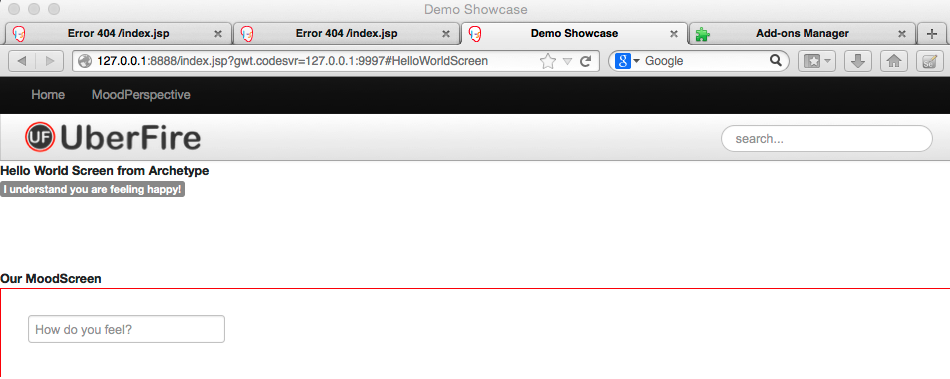
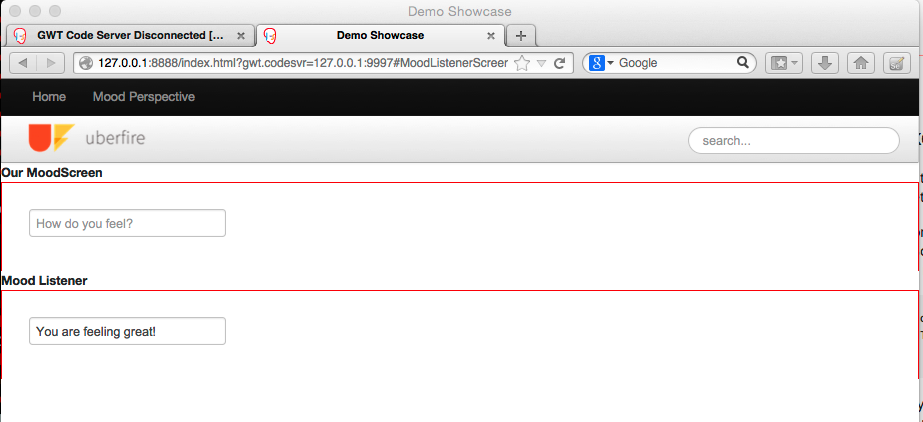
Getting started session

Changed region(s): [[0.0, 0.0, 1.0, 1.0], [0.0, 0.0, 0.0607, 0.029], [0.2427, 0.7546, 0.273, 0.7836]]

diff --git a/docs/gettingStarted/improvingYourFirstApp.md b/docs/gettingStarted/improvingYourFirstApp.md
@@ -95,6 +95,52 @@ public class MoodScreen extends Composite {
 ```
 MoodScreen is very similar to HelloWorldScreen. The only structural differences are related to our choice to use an Errai UI Template. See more about Errai UI templates in [this guide](https://docs.jboss.org/author/display/ERRAI/Errai+UI).
 
+### Creating MoodListenerScreen
+Create a HTML file named MoodListenerScreen.html inside Java package org.uberfire.client.screens with this content:
+```
+<div>
+    <div style="border: 1px solid red; padding: 30px">
+        <input data-field=moodTextBox type=text placeholder="I understand that you are feeling...">
+    </div>
+</div>
+```
+And create MoodListenerScreen.java, inside org.uberfire.cliente.screens:
+```
+package org.uberfire.client.screens;
+
+import javax.enterprise.context.Dependent;
+import javax.enterprise.event.Event;
+import javax.inject.Inject;
+
+import com.google.gwt.event.dom.client.KeyCodes;
+import com.google.gwt.event.dom.client.KeyDownEvent;
+import com.google.gwt.user.client.ui.Composite;
+import com.google.gwt.user.client.ui.TextBox;
+import org.jboss.errai.ui.shared.api.annotations.DataField;
+import org.jboss.errai.ui.shared.api.annotations.EventHandler;
+import org.jboss.errai.ui.shared.api.annotations.Templated;
+import org.uberfire.client.annotations.WorkbenchPartTitle;
+import org.uberfire.client.annotations.WorkbenchScreen;
+import org.uberfire.shared.Mood;
+
+@Dependent
+@Templated
+@WorkbenchScreen(identifier="MoodListenerScreen")
+public class MoodListenerScreen extends Composite {
+
+    @Inject
+    @DataField
+    private TextBox moodTextBox;
+
+
+    @WorkbenchPartTitle
+    public String getScreenTitle() {
+        return "MoodListenerScreen";
+    }
+
+}
+```
+
 ### Giving MoodScreen, a perspective
 Let's create our first perspective, using Uberfire Templated Perspectives.
 
@@ -102,19 +148,21 @@ First, we need to create the perspective Errai UI template, named "HomePerspecti
 ```
 <div>
     <div id="home1">
-        <span><b>Hello World Screen from Archetype</b></span>
-
-        <div data-field="helloWorldScreen"></div>
-
-    </div>
-    <div id="home2">
-        <span><b> Our MoodScreen</b></span>
+        <span><b>Our MoodScreen</b></span>
 
         <div data-field="moodScreen"></div>
     </div>
+    <div id="home2">
+        <span><b>Mood Listener</b></span>
+
+        <div data-field="moodListener"></div>
+
+    </div>
 </div>
 ```
+
 Now, let's create the Perspective class on org.uberfire.client.perspectives package:
+
 ```
 package org.uberfire.client.perspectives;
 
@@ -138,8 +186,8 @@ public class MoodPerspective extends Composite {
     UFFlowPanel moodScreen = new UFFlowPanel(100);
 
     @DataField
-    @WorkbenchPanel(parts = "HelloWorldScreen")
-    UFFlowPanel helloWorldScreen = new UFFlowPanel(100);
+    @WorkbenchPanel(parts = "MoodListenerScreen")
+    UFFlowPanel moodListener = new UFFlowPanel(100);
 
 }
 ```
@@ -163,16 +211,15 @@ We need to update org.uberfire.client.ShowcaseEntryPoint and replace setupMenu m
                             }
                         } )
                         .endMenu().
-                        newTopLevelMenu( "MoodPerspective" )
+                        newTopLevelMenu( "Mood Perspective" )
                         .respondsWith( new Command() {
                             @Override
                             public void execute() {
-                                placeManager.goTo( new DefaultPlaceRequest( "MoodPerspective"
+                                placeManager.goTo( "MoodPerspective");
                             }
                         } )
                         .endMenu()
                         .build();
-
         menubar.addMenus( menus );
     }
  ```
@@ -192,10 +239,10 @@ Click on MoodPerspective menu:
 ### Let's make the screens communicate
 Did you notice the CDI event raised by MoodScreen? If no, take a look at onKeyDownMethod.
 
-Now let’s do something in HelloWorldScreen in response to the the event we fire in MoodScreen when the user presses Enter. To do this we’ll add a CDI observer method at HelloWorldScreen:
+Now let’s do something in  in response to the the event we fire in MoodListenerScreen when the user presses Enter. To do this we’ll add a CDI observer method at MoodListenerScreen:
 ```
 public void onMoodChange(@Observes Mood mood) {
-    label.setText("I understand you are feeling " + mood.getText());
+        moodTextBox.setText("You are feeling " + mood.getText());
 }
 ```
 Build and run your App again (mvn gwt:compile gwt:run), write a text on "How do  you fell" textbox and press enter to see screens communicating:

diff --git a/docs/overview/howitallfitstogether.md b/docs/overview/howitallfitstogether.md
@@ -1,7 +1,7 @@
 # How it all fits together
 Build on the strengths of [GWT](http://www.gwtproject.org/) and [ERRAI](http://erraiframework.org/), Uberfire allow you to write and maintain your application code in the Java programming language with all of the Java tooling at your disposal, then deploy it to the browser as a native JavaScript + HTML application.
 
-![code flow shart](http://www.uberfireframework.org/images/shared-code-flowchart.png)
+![code flow shart](shared-code-flowchart.png)
 
 ## Killer Features
 
@@ -17,7 +17,7 @@ Each plugin is a maven module, so when building a distribution, you simple need 
 
 Drag-and-drop layouts give your users control over their work environment.
 
-![dnd](http://www.uberfireframework.org/screenshots/drag-views.gif)
+![dnd](drag-views.gif)
 
 ### Powerful VFS
 
@@ -48,7 +48,7 @@ Develop plugins in Java against our declarative, typesafe APIs, or choose your f
 
 Plugins can contribute new perspectives, views, editors, menu items, and more to an UberFire project.
 
-![gwt](http://www.uberfireframework.org/images/gwt-logo-100.png) ![jquery](http://www.uberfireframework.org/images/jquery-ui-logo-100.png)![angular](http://www.uberfireframework.org/images/angularjs-logo-100.png) ![ember](http://www.uberfireframework.org/images/emberjs-logo-100.png)
+![gwt](gwt-logo-100.png) ![jquery](jquery-ui-logo-100.png)![angular](angularjs-logo-100.png) ![ember](emberjs-logo-100.png)
 
 
 ###Modular Design

diff --git a/docs/gettingStarted/runningUberfireShowcase.md b/docs/gettingStarted/runningUberfireShowcase.md
@@ -61,6 +61,8 @@ You should notice some disk activity, and if you’re using JBoss AS or EAP, you
 ##See it work!
 Now visit [http://localhost:8080/uberfire-showcase/](http://localhost:8080/uberfire-showcase/) and sign in with username **admin**, password **admin**.
 
+![dnd](drag-views.gif)
+
 Once you’re logged in, here are some things to try:
 
 * Try switching perspectives in the perspective menu.
